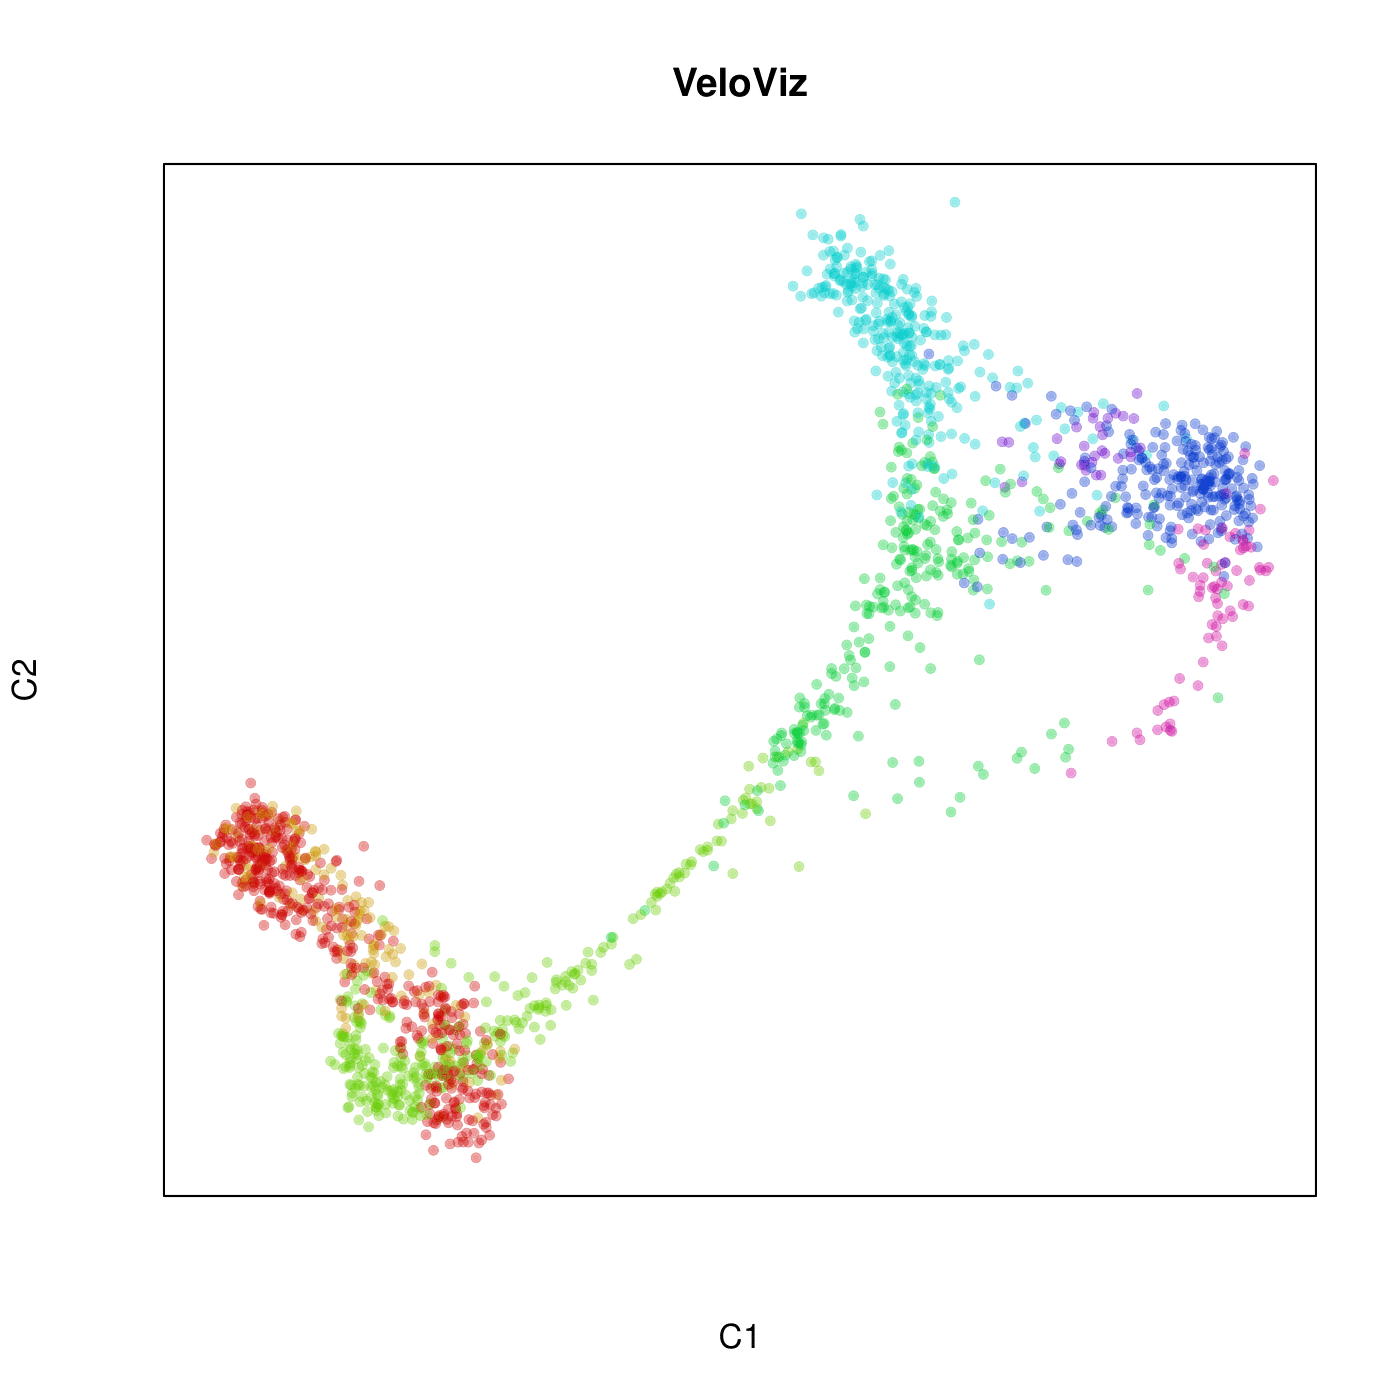
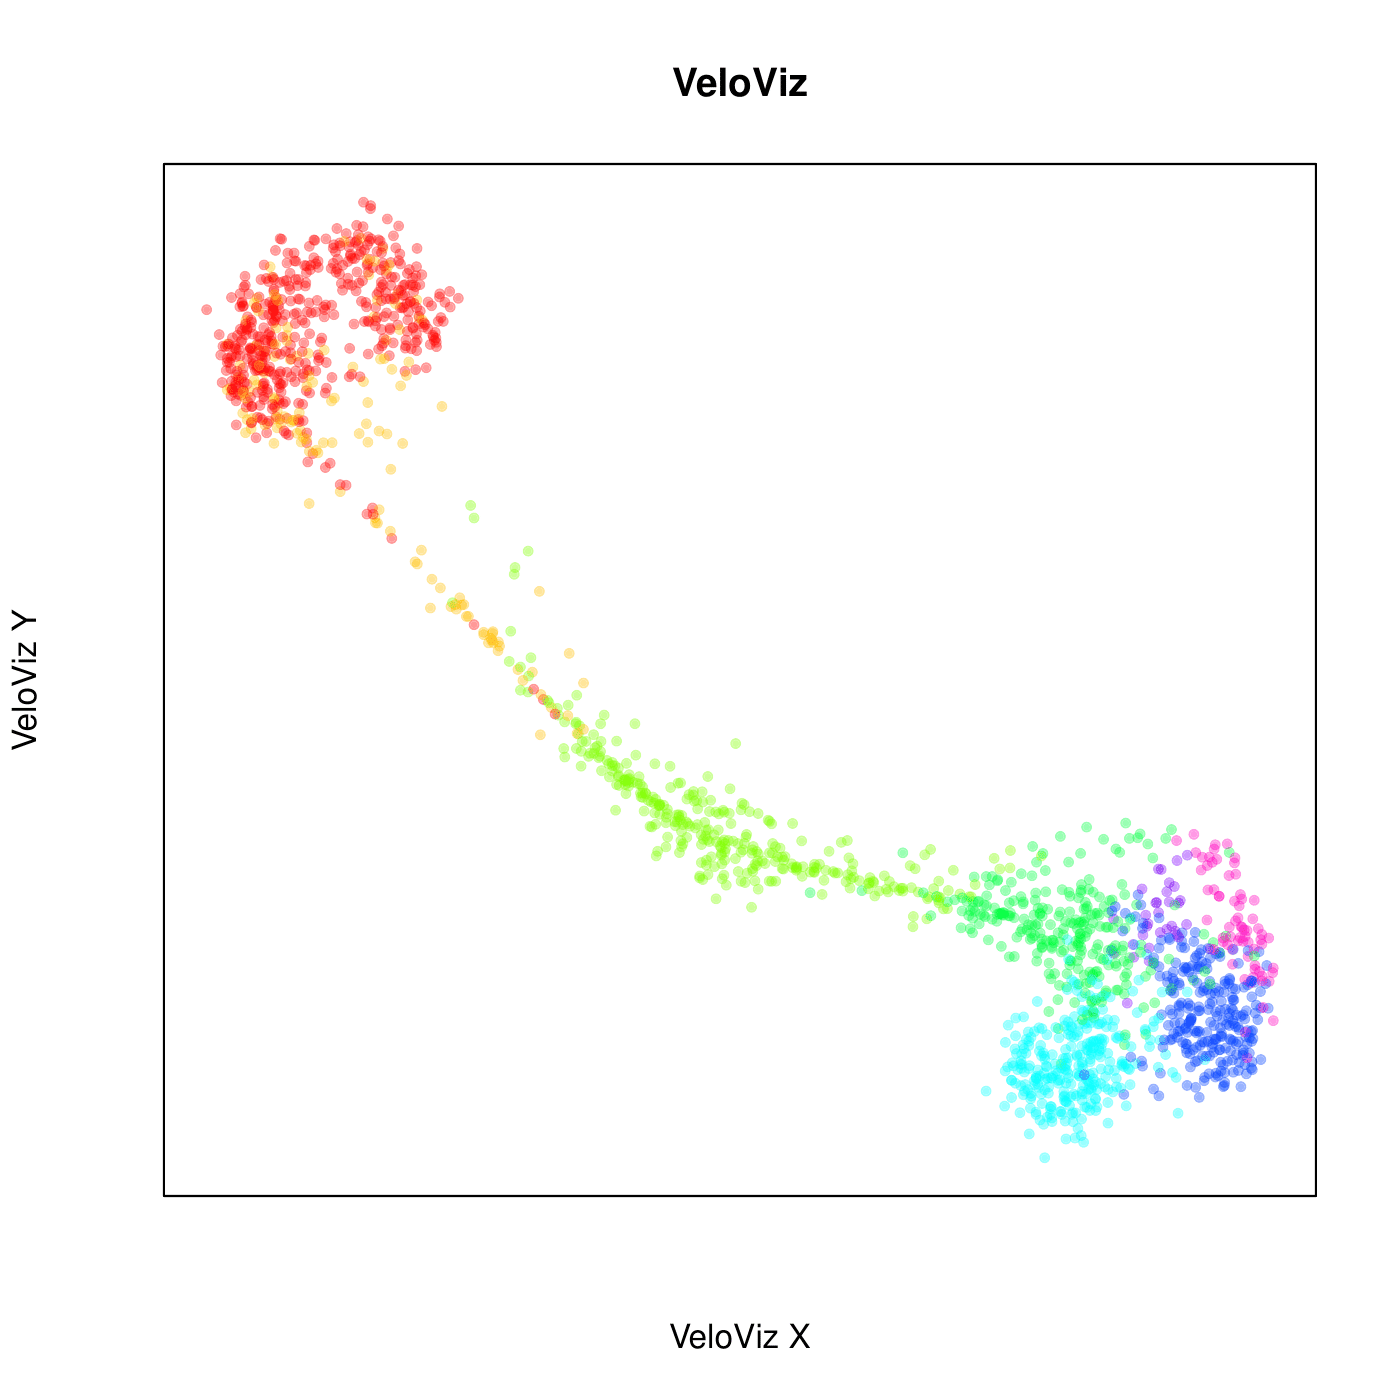
Update UMAP tutorial

diff --git a/docs/umap.md b/docs/umap.md
@@ -4,7 +4,7 @@ Inputting VeloViz nearest neighbors into UMAP
 In this example, we will use Veloviz to produce a velocity-informed 2D
 embedding and will then pass the computed nearest neighbor data into UMAP. 
 This is useful to users who want to use common algorithms such as t-SNE and
-UMAP, but with informed initialization. We will use the pancreas 
+UMAP to layout their embedding. We will use the pancreas 
 endocrinogenesis dataset in this example.
 
 First, load libraries:
@@ -121,7 +121,7 @@ veloviz = buildVeloviz(
   nPCs = 20,
   center = TRUE,
   scale = TRUE,
-  k = 5,
+  k = 20,
   similarity.threshold = 0.25,
   distance.weight = 1,
   distance.threshold = 0.5,
@@ -144,7 +144,7 @@ emb.umap = uwot::umap(pcs, min_dist = 0.5)
 rownames(emb.umap) <- rownames(pcs)
 ```
 
-UMAP initialized with VeloViz nearest neighbors
+UMAP with VeloViz nearest neighbors
 ---------------------------
 Now we want to input VeloViz-computed nearest neighbor data into UMAP. 
 VeloViz outputs an igraph graph, but the uwot::umap function expects
@@ -196,7 +196,7 @@ Now we can input the NN graph from VeloViz into UMAP.
 
 ```r
 # Convert veloviz$graph (igraph type) to an idx & dist representation
-nnGraph <- as_nn_graph(graph = veloviz$graph, k = 5)
+nnGraph <- as_nn_graph(graph = veloviz$graph, k = 20)
 
 # input nnGraph to UMAP and plot
 set.seed(0)
@@ -212,22 +212,23 @@ par(mfrow = c(1,3))
 
 # VeloViz
 plotEmbedding(emb.veloviz, 
-              groups=clusters[rownames(emb.veloviz)], 
-              main='VeloViz')
+              colors=cell.cols[rownames(emb.veloviz)],
+              frame.plot = TRUE, xaxt = 'n', yaxt = 'n',
+              main='VeloViz', xlab="VeloViz X", ylab = "VeloViz Y")
 
 # UMAP on PC data
-plotEmbedding(emb.umap, colors = cell.cols, 
-              main='UMAP',
+plotEmbedding(emb.umap, colors = cell.cols, main='UMAP',
+              frame.plot = TRUE, xaxt = 'n', yaxt = 'n',
               xlab = "UMAP X", ylab = "UMAP Y")
               
-# UMAP initialized with VeloViz nearest neighbors
+# UMAP with VeloViz nearest neighbors
 plotEmbedding(emb.umapVelo,
               colors = cell.cols[rownames(emb.umapVelo)],
-              main = 'UMAP (initialized with VeloViz)', 
-              xlab = "UMAP X", ylab = "UMAP Y")
+              frame.plot = TRUE, xaxt = 'n', yaxt = 'n',
+              main = 'UMAP with VeloViz', xlab = "UMAP X", ylab = "UMAP Y")
 ```
 
-Veloviz                    |  UMAP                     |  UMAP (initialized with VeloViz)
+Veloviz                    |  UMAP                     |  UMAP with VeloViz
 :-------------------------:|:-------------------------:|:-------------------------:
 ![](umap_files/figure-markdown_strict/pancreasVeloviz.png) | ![](umap_files/figure-markdown_strict/pancreasUMAP.png) | ![](umap_files/figure-markdown_strict/pancreasUMAPVelo.png) 
 
@@ -239,31 +240,33 @@ par(mfrow = c(1,3))
 
 # show velocities
 show.velocity.on.embedding.cor(scale(emb.veloviz), vel,
-                               n=50,
+                               n = 50,
                                scale='sqrt',
                                cex=1, arrow.scale=1, show.grid.flow=TRUE,
-                               min.grid.cell.mass=0.5, grid.n=30, 
-                               arrow.lwd=1, do.par=FF, 
-                               cell.colors=cell.cols, main='VeloViz')
+                               min.grid.cell.mass=0.5, grid.n=30, arrow.lwd=1, do.par = F,
+                               cell.colors=cell.cols[rownames(emb.veloviz)],
+                               frame.plot = TRUE, xaxt = 'n', yaxt = 'n',
+                               main='VeloViz', xlab="VeloViz X", ylab='VeloViz Y')
 
 show.velocity.on.embedding.cor(scale(emb.umap), vel,
-                               n=50,
+                               n = 50,
                                scale='sqrt',
                                cex=1, arrow.scale=1, show.grid.flow=TRUE,
-                               min.grid.cell.mass=0.5, grid.n=30, 
-                               arrow.lwd=1, do.par=F,
-                               cell.colors=cell.cols, main='UMAP')
+                               min.grid.cell.mass=0.5, grid.n=30, arrow.lwd=1, do.par = F,
+                               cell.colors=cell.cols,
+                               frame.plot = TRUE, xaxt = 'n', yaxt = 'n'
+                               main='UMAP', xlab="UMAP X", ylab='UMAP Y')
 
 show.velocity.on.embedding.cor(scale(emb.umapVelo), vel,
-                               n=50,
+                               n = 50,
                                scale='sqrt',
                                cex=1, arrow.scale=1, show.grid.flow=TRUE,
-                               min.grid.cell.mass=0.5, grid.n=30, 
-                               arrow.lwd=1, do.par=F,
-                               cell.colors=cell.cols[rownames(emb.umapVelo)],
-                               main='UMAP (initialized with VeloViz)')
+                               min.grid.cell.mass=0.5, grid.n=30, arrow.lwd=1, do.par = F,
+                               cell.colors = cell.cols[rownames(emb.umapVelo)],
+                               frame.plot = TRUE, xaxt = 'n', yaxt = 'n', 
+                               main='UMAP with VeloViz', xlab="UMAP X", ylab='UMAP Y')
 ```
 
-Veloviz                    |  UMAP                     |  UMAP (initialized with VeloViz)
+Veloviz                    |  UMAP                     |  UMAP with VeloViz
 :-------------------------:|:-------------------------:|:-------------------------:
 ![](umap_files/figure-markdown_strict/pancreasVeloviz_withArrows.png) | ![](umap_files/figure-markdown_strict/pancreasUMAP_withArrows.png) | ![](umap_files/figure-markdown_strict/pancreasUMAPVelo_withArrows.png) 

diff --git a/docs/index.md b/docs/index.md
@@ -86,5 +86,5 @@ plotEmbedding(emb.veloviz, groups=clusters[rownames(emb.veloviz)], main='veloviz
 ## Tutorials
 [scRNA-seq data preprocessing and visualization using VeloViz](pancreas)  
 [MERFISH cell cycle visualization using VeloViz](merfish)  
-[Understanding VeloViz parameters](simulation)
+[Understanding VeloViz parameters](simulation) \
 [Visualizing the VeloViz graph using UMAP](umap)
